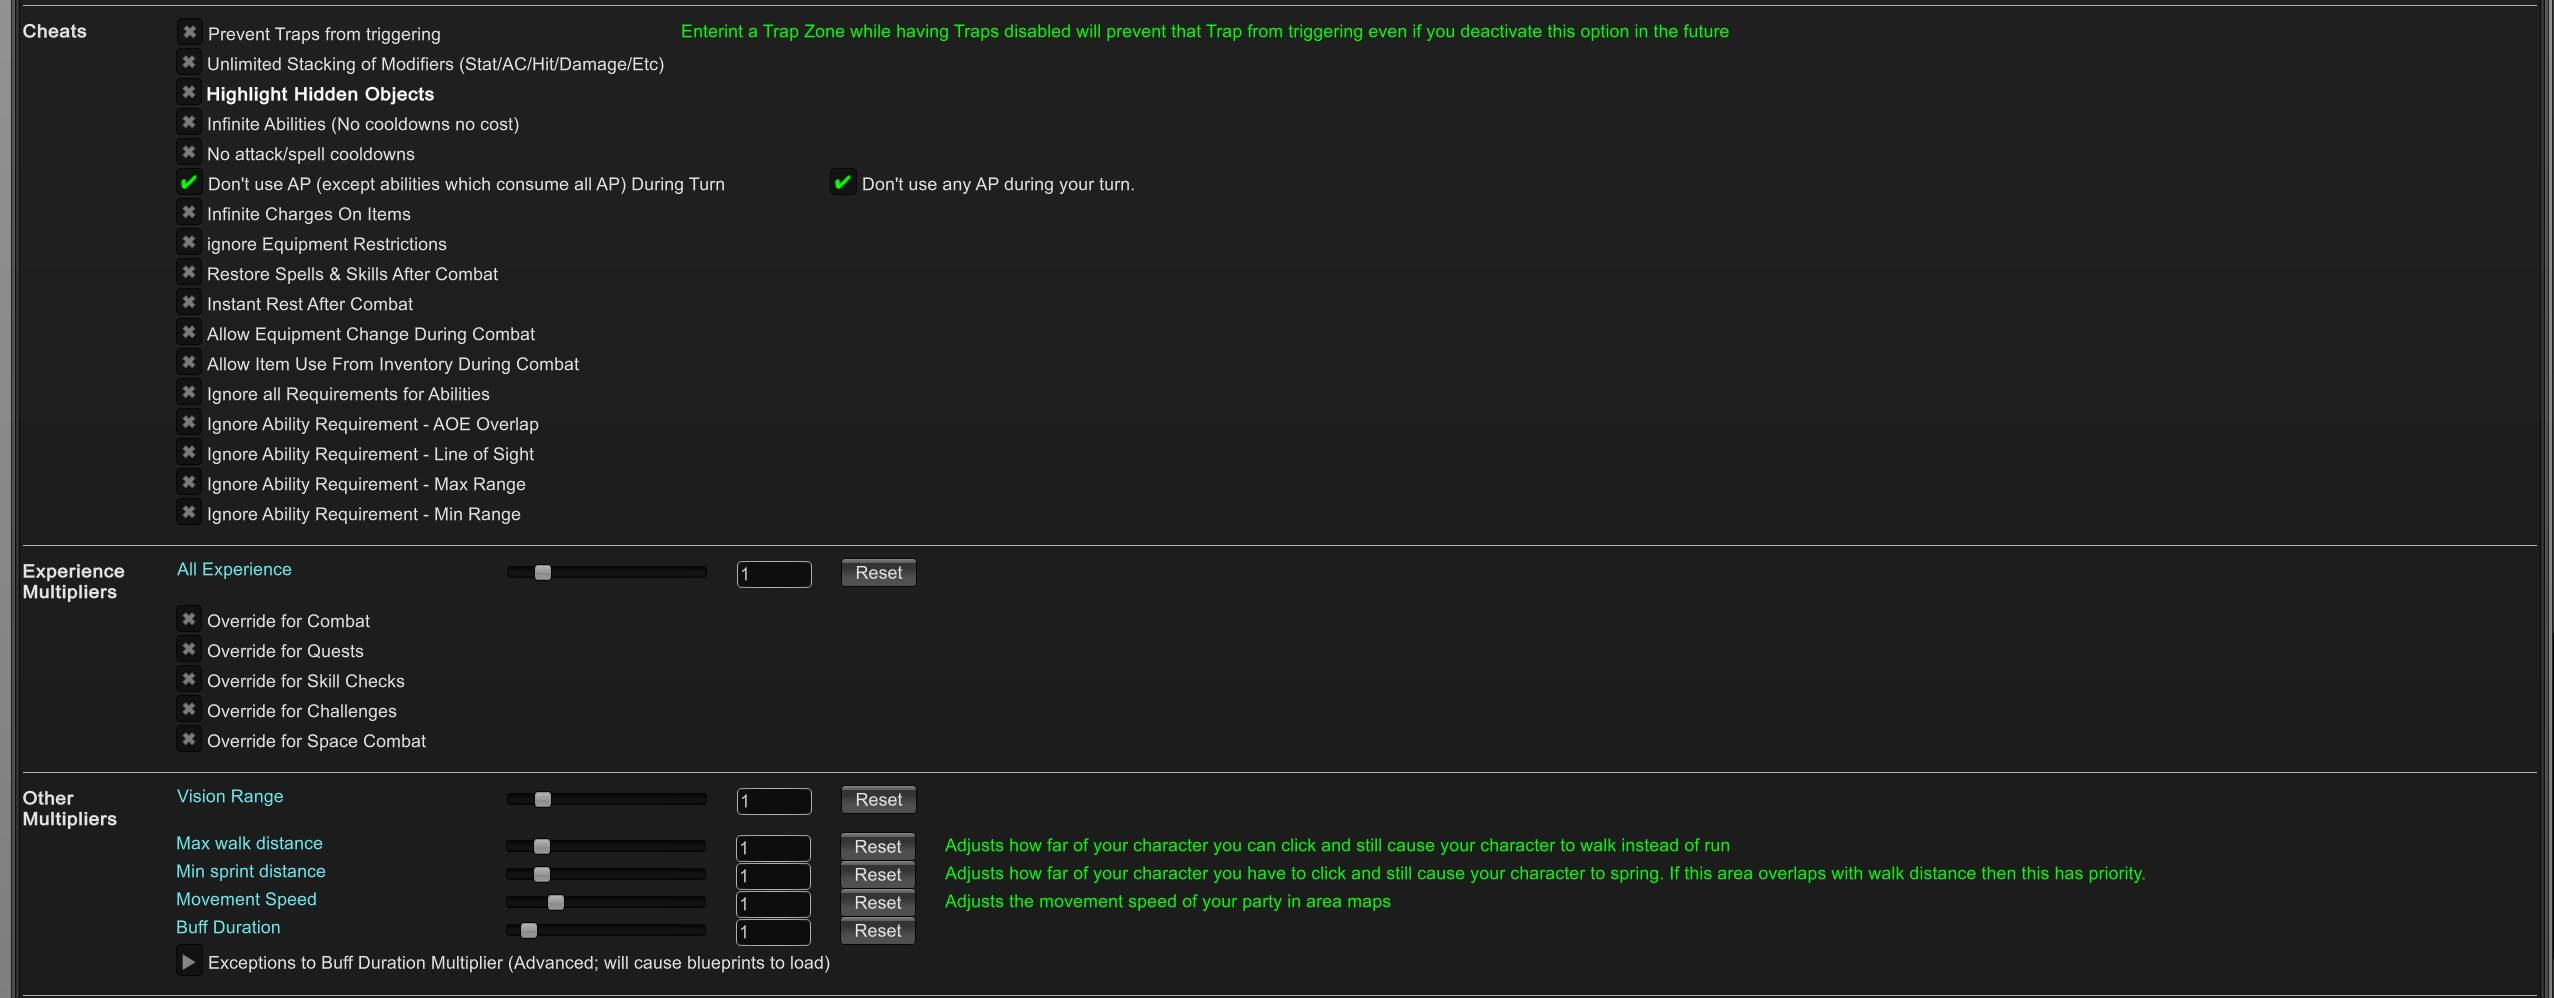
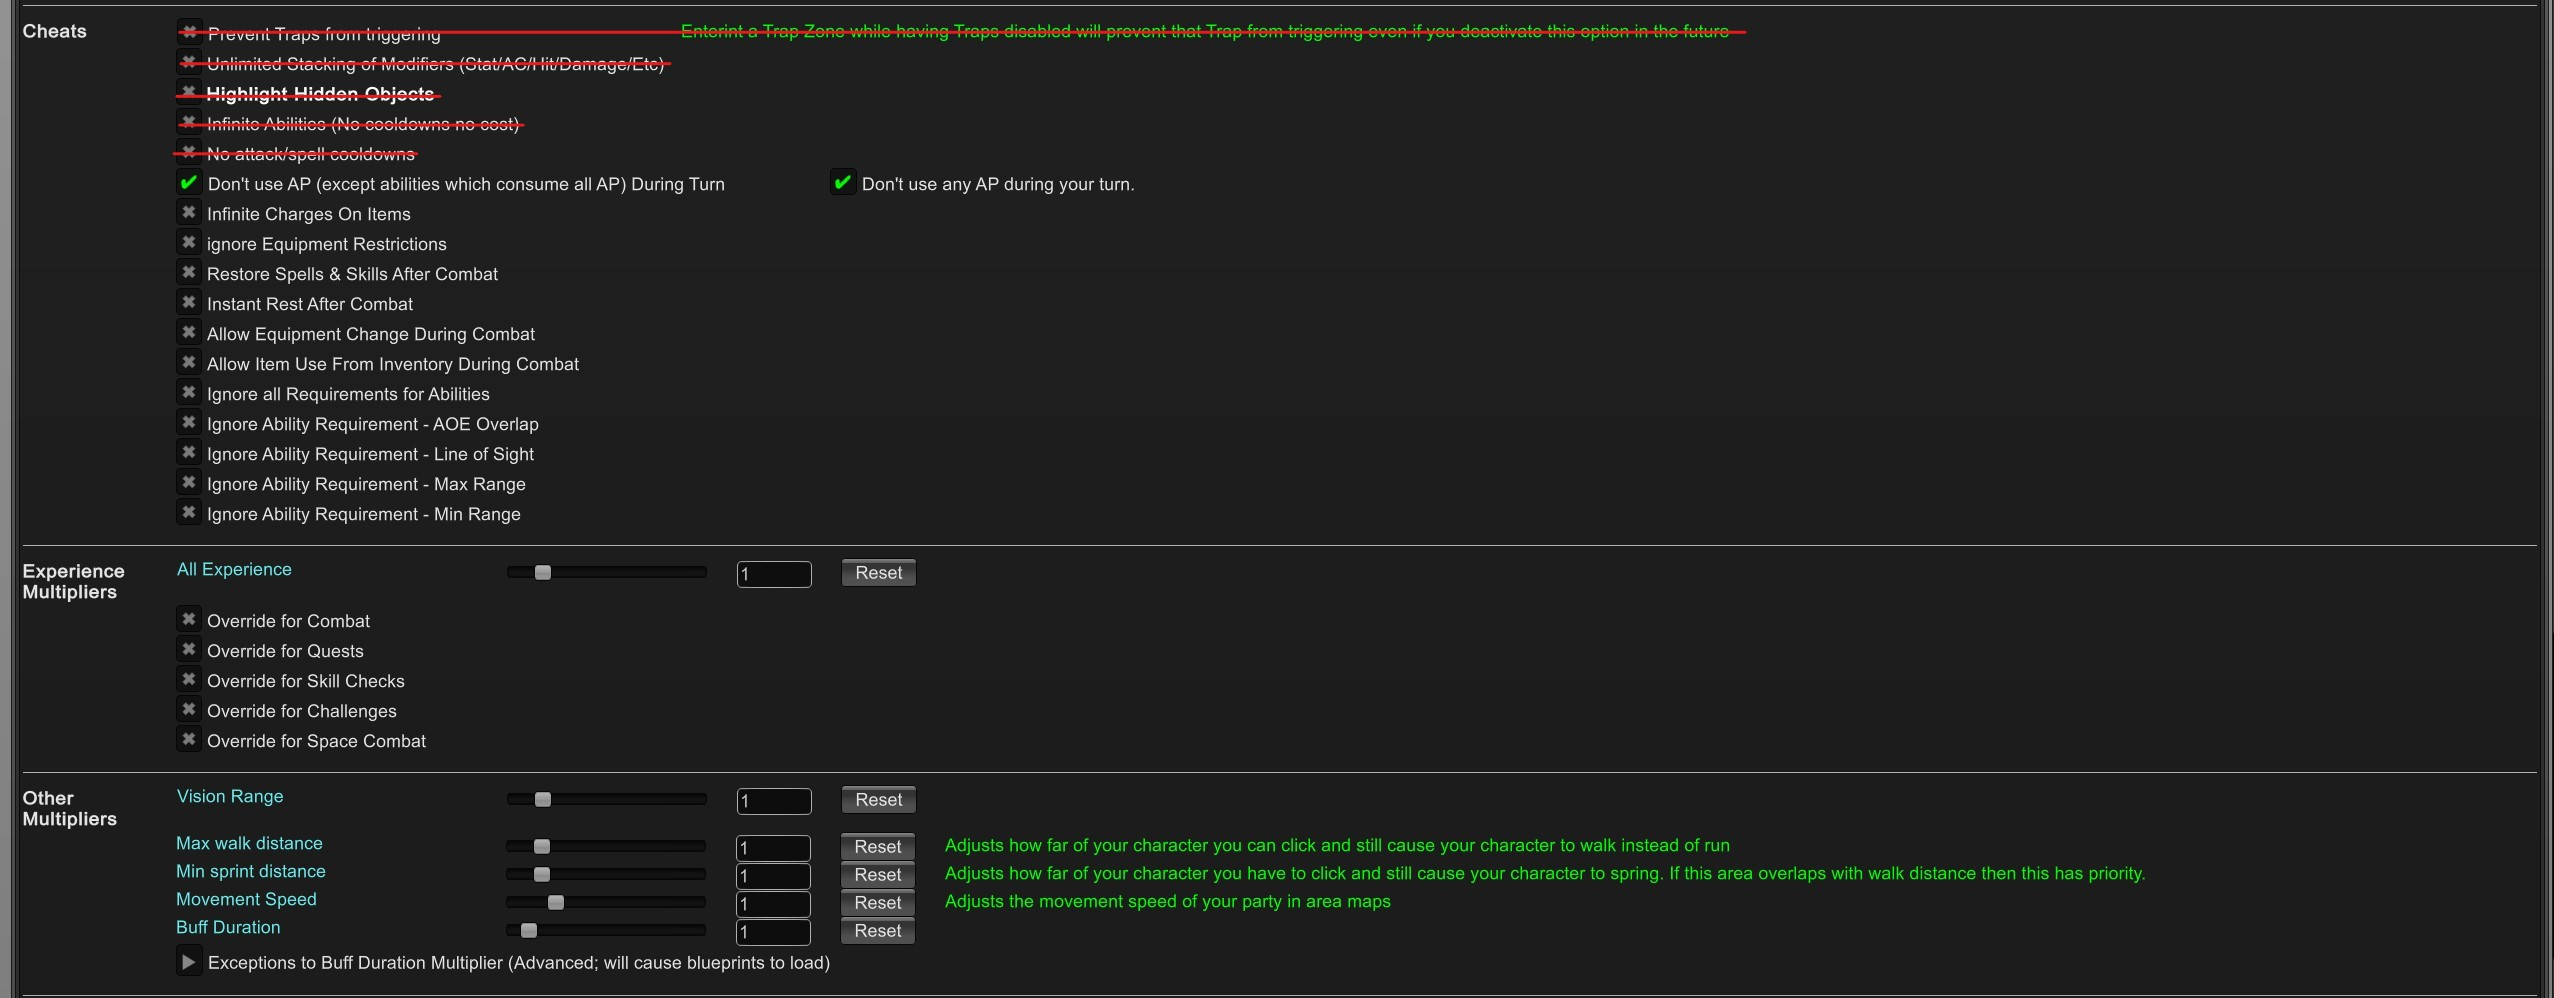
NoAbilityCooldownsFeature

Changed region(s): [[0.0619, 0.0311, 0.6805, 0.1553]]

diff --git a/ToyBox/Classes/Features/BagOfTricks/Cheats/FreeAbilitiesFeature.cs b/ToyBox/Classes/Features/BagOfTricks/Cheats/FreeAbilitiesFeature.cs
@@ -1,33 +1,25 @@
 using Kingmaker.EntitySystem.Entities;
-using Kingmaker.Mechanics.Entities;
 using Kingmaker.UnitLogic.Abilities;
 using Kingmaker.UnitLogic.Abilities.Components;
 using Kingmaker.UnitLogic.ActivatableAbilities;
-using Kingmaker.UnitLogic.Commands;
 
 namespace ToyBox.Features.BagOfTricks.Cheats;
 
-[HarmonyPatch, ToyBoxPatchCategory("ToyBox.Features.BagOfTricks.Cheats.InfiniteAbilitiesFeature")]
-public partial class InfiniteAbilitiesFeature : FeatureWithPatch {
+[HarmonyPatch, ToyBoxPatchCategory("ToyBox.Features.BagOfTricks.Cheats.FreeAbilitiesFeature")]
+public partial class FreeAbilitiesFeature : FeatureWithPatch {
     public override ref bool IsEnabled {
         get {
-            return ref Settings.EnableInfiniteAbilities;
+            return ref Settings.EnableFreeAbilities;
         }
     }
-    [LocalizedString("ToyBox_Features_BagOfTricks_Cheats_InfiniteAbilitiesFeature_Name", "Free Abilities")]
+    [LocalizedString("ToyBox_Features_BagOfTricks_Cheats_FreeAbilitiesFeature_Name", "Free Abilities")]
     public override partial string Name { get; }
-    [LocalizedString("ToyBox_Features_BagOfTricks_Cheats_InfiniteAbilitiesFeature_Description", "Makes abilities ignore cooldowns and have no cost.")]
+    [LocalizedString("ToyBox_Features_BagOfTricks_Cheats_FreeAbilitiesFeature_Description", "Makes abilities have no cost.")]
     public override partial string Description { get; }
 
     protected override string HarmonyName {
         get {
-            return "ToyBox.Features.BagOfTricks.Cheats.InfiniteAbilitiesFeature";
-        }
-    }
-    [HarmonyPatch(typeof(UnitUseAbilityParams), nameof(UnitUseAbilityParams.IgnoreCooldown), MethodType.Getter), HarmonyPostfix]
-    private static void UnitUseAbilityParams_IgnoreCooldown_Patch(UnitUseAbilityParams __instance, ref bool __result) {
-        if (__instance.Ability?.Caster is AbstractUnitEntity unit && ToyBoxUnitHelper.IsPartyOrPet(unit)) {
-            __result = true;
+            return "ToyBox.Features.BagOfTricks.Cheats.FreeAbilitiesFeature";
         }
     }
     [HarmonyPatch(typeof(AbilityResourceLogic), nameof(AbilityResourceLogic.Spend)), HarmonyPrefix]

diff --git a/ToyBox/Classes/Features/BagOfTricks/Cheats/NoAbilityCooldownsFeature.cs b/ToyBox/Classes/Features/BagOfTricks/Cheats/NoAbilityCooldownsFeature.cs
@@ -1,0 +1,28 @@
+using Kingmaker.Mechanics.Entities;
+using Kingmaker.UnitLogic.Commands;
+
+namespace ToyBox.Features.BagOfTricks.Cheats;
+
+[HarmonyPatch, ToyBoxPatchCategory("ToyBox.Features.BagOfTricks.Cheats.NoAbilityCooldownsFeature")]
+public partial class NoAbilityCooldownsFeature : FeatureWithPatch {
+    public override ref bool IsEnabled {
+        get {
+            return ref Settings.EnableNoAbilityCooldownsFeature;
+        }
+    }
+    [LocalizedString("ToyBox_Features_BagOfTricks_Cheats_NoAbilityCooldownsFeature_Name", "No Ability Cooldowns")]
+    public override partial string Name { get; }
+    [LocalizedString("ToyBox_Features_BagOfTricks_Cheats_NoAbilityCooldownsFeature_Description", "Makes abilities have no cooldown.")]
+    public override partial string Description { get; }
+    protected override string HarmonyName {
+        get {
+            return "ToyBox.Features.BagOfTricks.Cheats.NoAbilityCooldownsFeature";
+        }
+    }
+    [HarmonyPatch(typeof(UnitUseAbilityParams), nameof(UnitUseAbilityParams.IgnoreCooldown), MethodType.Getter), HarmonyPostfix]
+    private static void UnitUseAbilityParams_IgnoreCooldowns_Patch(UnitUseAbilityParams __instance, ref bool __result) {
+        if (__instance.Ability?.Caster is AbstractUnitEntity unit && ToyBoxUnitHelper.IsPartyOrPet(unit)) {
+            __result = true;
+        }
+    }
+}

diff --git a/ToyBox/Classes/Features/BagOfTricks/BagOfTricksFeatureTab.cs b/ToyBox/Classes/Features/BagOfTricks/BagOfTricksFeatureTab.cs
@@ -98,6 +98,7 @@ public partial class BagOfTricksFeatureTab : FeatureTab {
         AddFeature(new PreventTrapsFromTriggeringFeature(), m_CheatsText);
         AddFeature(new UnlimitedStackingOfModifiersFeature(), m_CheatsText);
         AddFeature(new HighlightHiddenObjectsFeature(), m_CheatsText);
-        AddFeature(new InfiniteAbilitiesFeature(), m_CheatsText);
+        AddFeature(new FreeAbilitiesFeature(), m_CheatsText);
+        AddFeature(new NoAbilityCooldownsFeature(), m_CheatsText);
     }
 }

diff --git a/ToyBox/Classes/Infrastructure/Settings/GeneralSettings.cs b/ToyBox/Classes/Infrastructure/Settings/GeneralSettings.cs
@@ -119,5 +119,6 @@ internal class GeneralSettings : AbstractSettings {
     public bool HighlightHiddenObjects = false;
     public bool HighlightInFogOfWar = false;
     public bool HighlightHiddenTraps = false;
-    public bool EnableInfiniteAbilities = false;
+    public bool EnableFreeAbilities = false;
+    public bool EnableNoAbilityCooldownsFeature = false;
 }
